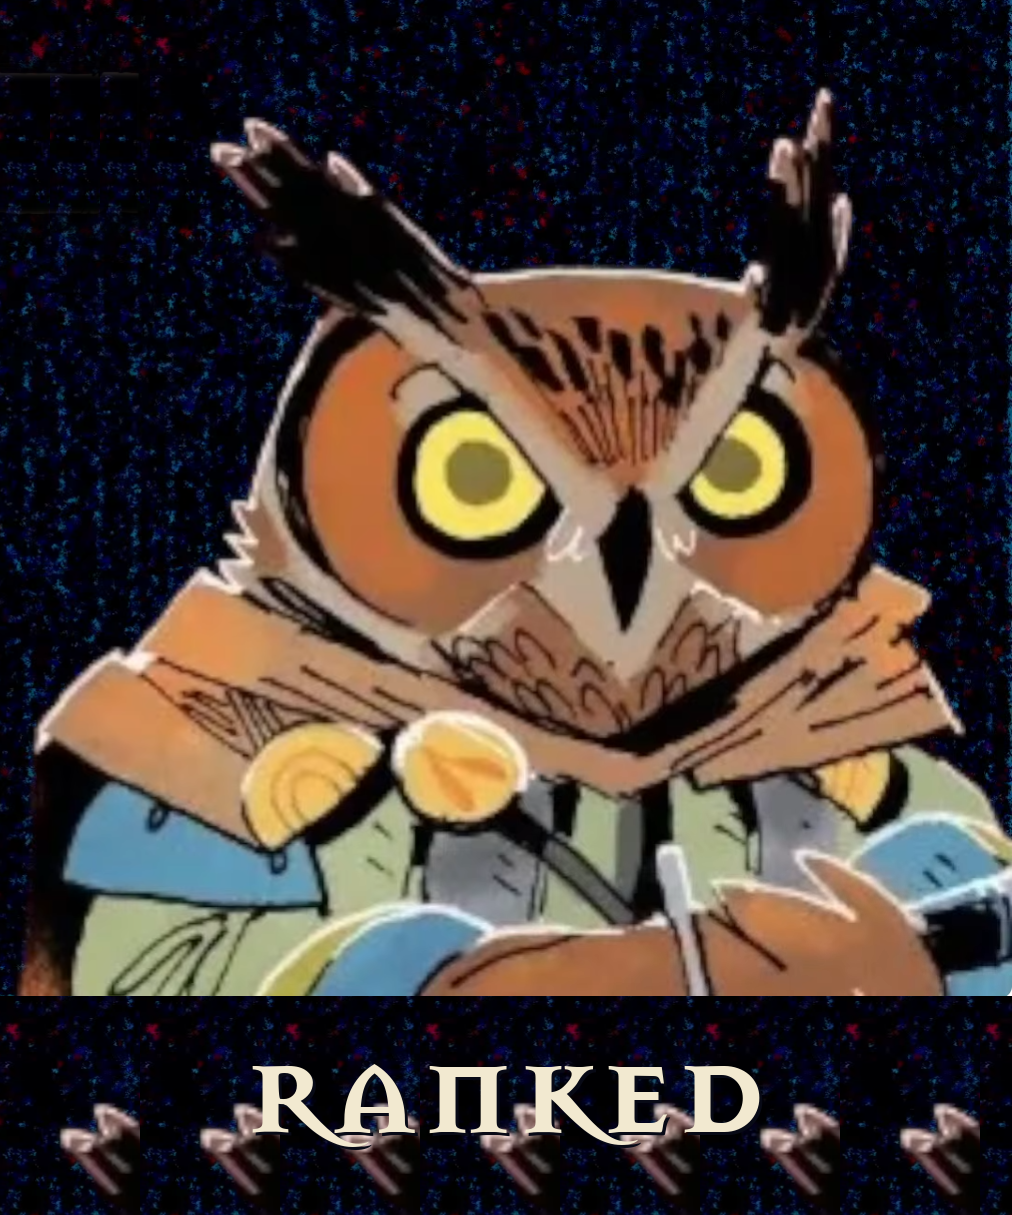
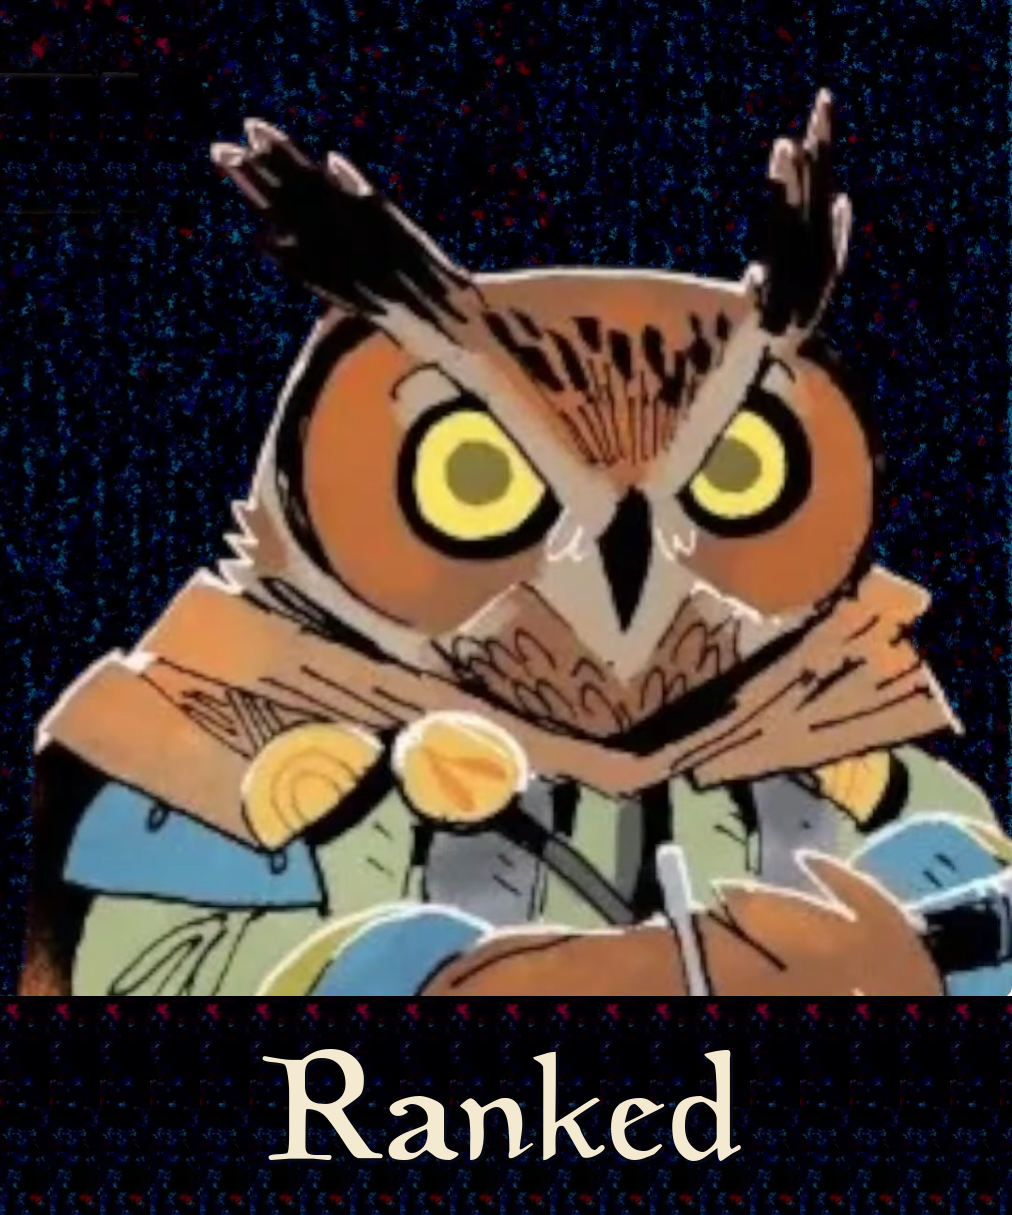
Wire Ranked (owl) + Theme (fox) image buttons on the top line
Recovered the Steam Cloud URLs for the uploaded button art from the local
Mods/Images cache (content-verified by SHA1), registered them as UI assets, and
replaced the RTT DRAFT text button with the two image buttons. Ranked -> rttSetup;
Theme -> rttTheme stub (action TBD). Includes the owl/theme/ranked art files.

Changed region(s): [[0.0, 0.8222, 1.0, 1.0]]

diff --git a/mods/m480_ranked_theme_buttons.py b/mods/m480_ranked_theme_buttons.py
@@ -1,0 +1,55 @@
+"""
+m480 — replace the "RTT DRAFT" text button with two image buttons: Ranked + Theme.
+
+Adrien composited the owl ("Ranked") and fox ("Theme") art and uploaded them to his
+TTS Steam Cloud; the URLs below are the resulting steamusercontent links (recovered +
+content-verified from the local Mods/Images cache). UI-button icons only render from
+Steam-hosted URLs, so these must be steamusercontent (not our jsDelivr/GitHub assets).
+
+  * Ranked (owl)  -> onclick rttSetup  (starts the ranked draft — same as the old button)
+  * Theme  (fox)  -> onclick rttTheme  (placeholder until Adrien says what Theme does)
+
+Two buttons, side by side, on the top line of the setup screen.
+"""
+import json
+import os
+
+from . import framework
+
+NAME = "RTT setup: Ranked (owl) + Theme (fox) image buttons on the top line"
+
+RANKED_URL = "https://steamusercontent-a.akamaihd.net/ugc/16567688693709882664/AE51F3B4977DA19D27182286AC65854B2F284FE7/"
+THEME_URL = "https://steamusercontent-a.akamaihd.net/ugc/10888766596693367672/E05EBC26AA0D8A1F55E6D861EF1E3D01CC07C803/"
+
+THEME_LUA = r"""
+function rttTheme(player, value, id)
+  -- Theme mode: action TBD (placeholder until Adrien specifies what Theme does).
+end
+"""
+
+RANKED_BTN = ('<Button id="rttRankedBtn" onclick="rttSetup" icon="RankedButton" '
+              'position="-22 58 -20" width="36" height="44"/>')
+THEME_BTN = ('<Button id="rttThemeBtn" onclick="rttTheme" icon="ThemeButton" '
+             'position="22 58 -20" width="36" height="44"/>')
+
+
+def apply(text):
+    # register the two Steam-hosted button images as named UI assets
+    text = framework.add_custom_ui_asset(text, "RankedButton", RANKED_URL)
+    text = framework.add_custom_ui_asset(text, "ThemeButton", THEME_URL)
+
+    # drop the old "RTT DRAFT" text button
+    text, n = framework.remove_xml_buttons(text, "rttSetup")
+    if n == 0:
+        raise framework.BuildError("rttSetup button not found to replace")
+
+    # add the two image buttons on the setup screen's top line
+    text = framework.add_button_to_group(text, "setupButtons", RANKED_BTN)
+    text = framework.add_button_to_group(text, "setupButtons", THEME_BTN)
+
+    # rttTheme stub
+    anchor = "function makeMap(player,value,id)"
+    if text.count(anchor) != 1:
+        raise framework.BuildError("makeMap anchor not unique")
+    text = text.replace(anchor, framework.esc(THEME_LUA) + anchor, 1)
+    return text

diff --git a/mods/registry.py b/mods/registry.py
@@ -62,6 +62,7 @@ from . import m440_marsh_floods
 from . import m445_marsh_no_landmarks
 from . import m460_priority_markers
 from . import m470_rtt_draft_pick
+from . import m480_ranked_theme_buttons
 # m450_label_icons DISABLED: confirmed custom (non-Steam) UI icons blank in TTS
 
 # Ready-made examples — uncomment to begin layering real modifications:
@@ -113,6 +114,7 @@ MODS = [
     m445_marsh_no_landmarks,       # Marsh map: drop the landmark models + cards
     m460_priority_markers,         # per-map: auto-place fixed clearing-priority markers
     m470_rtt_draft_pick,           # RTT draft phase 0-2: turn order + P1/P2 map+deck pick
+    m480_ranked_theme_buttons,     # replace RTT DRAFT text button with Ranked + Theme image buttons
     m360_board_cleanup,
     m380_faction_selector_clean,
     m390_no_hover_credits,
